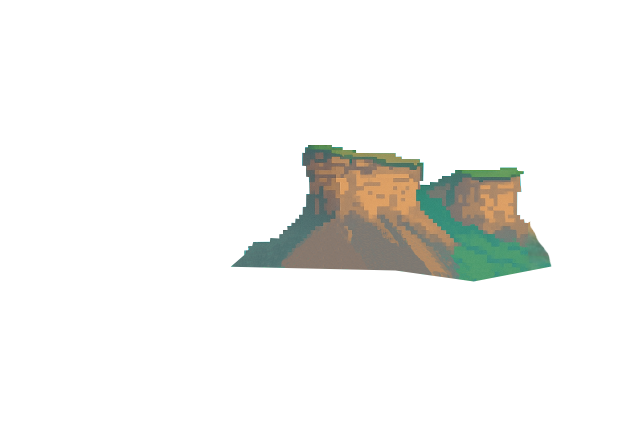
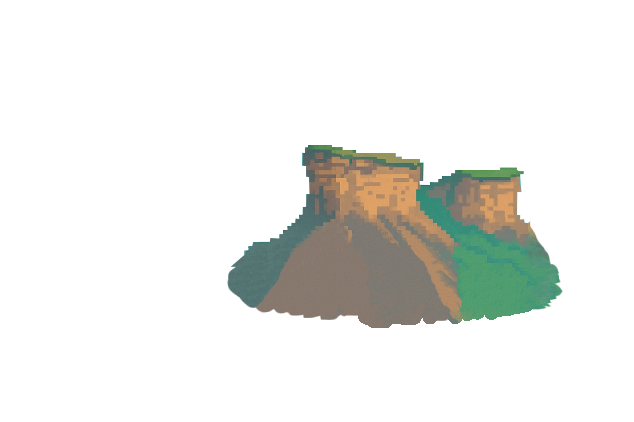
Creating Menu interations Creating ABC class Creating Factory Level 1 bg implementation: Parallax Upgrad the image the nivel 1 add flowers add more clouds

Changed region(s): [[0.3596, 0.6161, 0.8991, 0.8009]]

diff --git a/code/EntityFactory.py b/code/EntityFactory.py
@@ -15,7 +15,7 @@ class EntityFactory(ABC):
         match self:
             case 'Level1bg':
                 list_bg = []
-                for i in range(7):
+                for i in range(8):
                     list_bg.append(Background(f'Level1bg{i}', (0, 0)))
                     list_bg.append(Background(f'Level1bg{i}', (WIN_WIDTH, 0)))
                 return list_bg

diff --git a/code/Const.py b/code/Const.py
@@ -20,9 +20,10 @@ ENTITY_SPEED = {
     'Level1bg1': 0.6, #Montanha
     'Level1bg2':1.6, #Abusto
     'Level1bg3':2, #Arvore
-    'Level1bg4':3, #Nuvem
+    'Level1bg4':3, #Nuvem 1
     'Level1bg5':1.6, #Flor1
     'Level1bg6':1.6, #Flor2
+    'Level1bg7':1.6,  #Nuvem 2
 }
 
 
